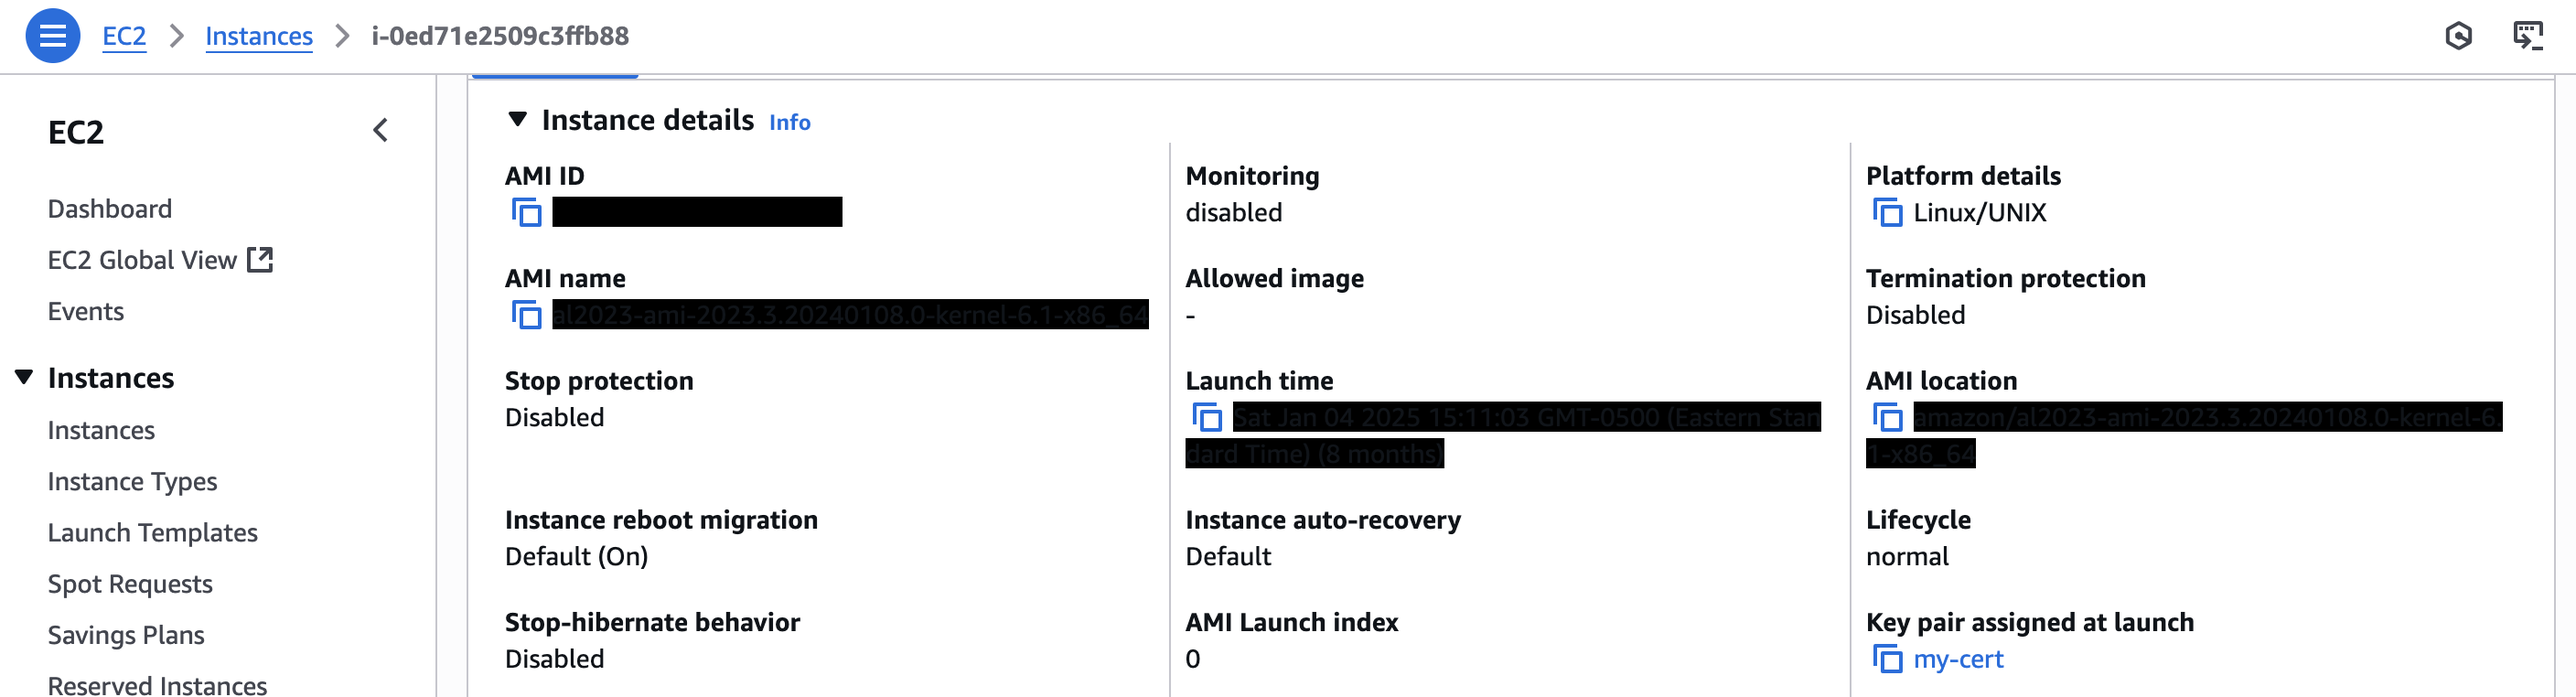
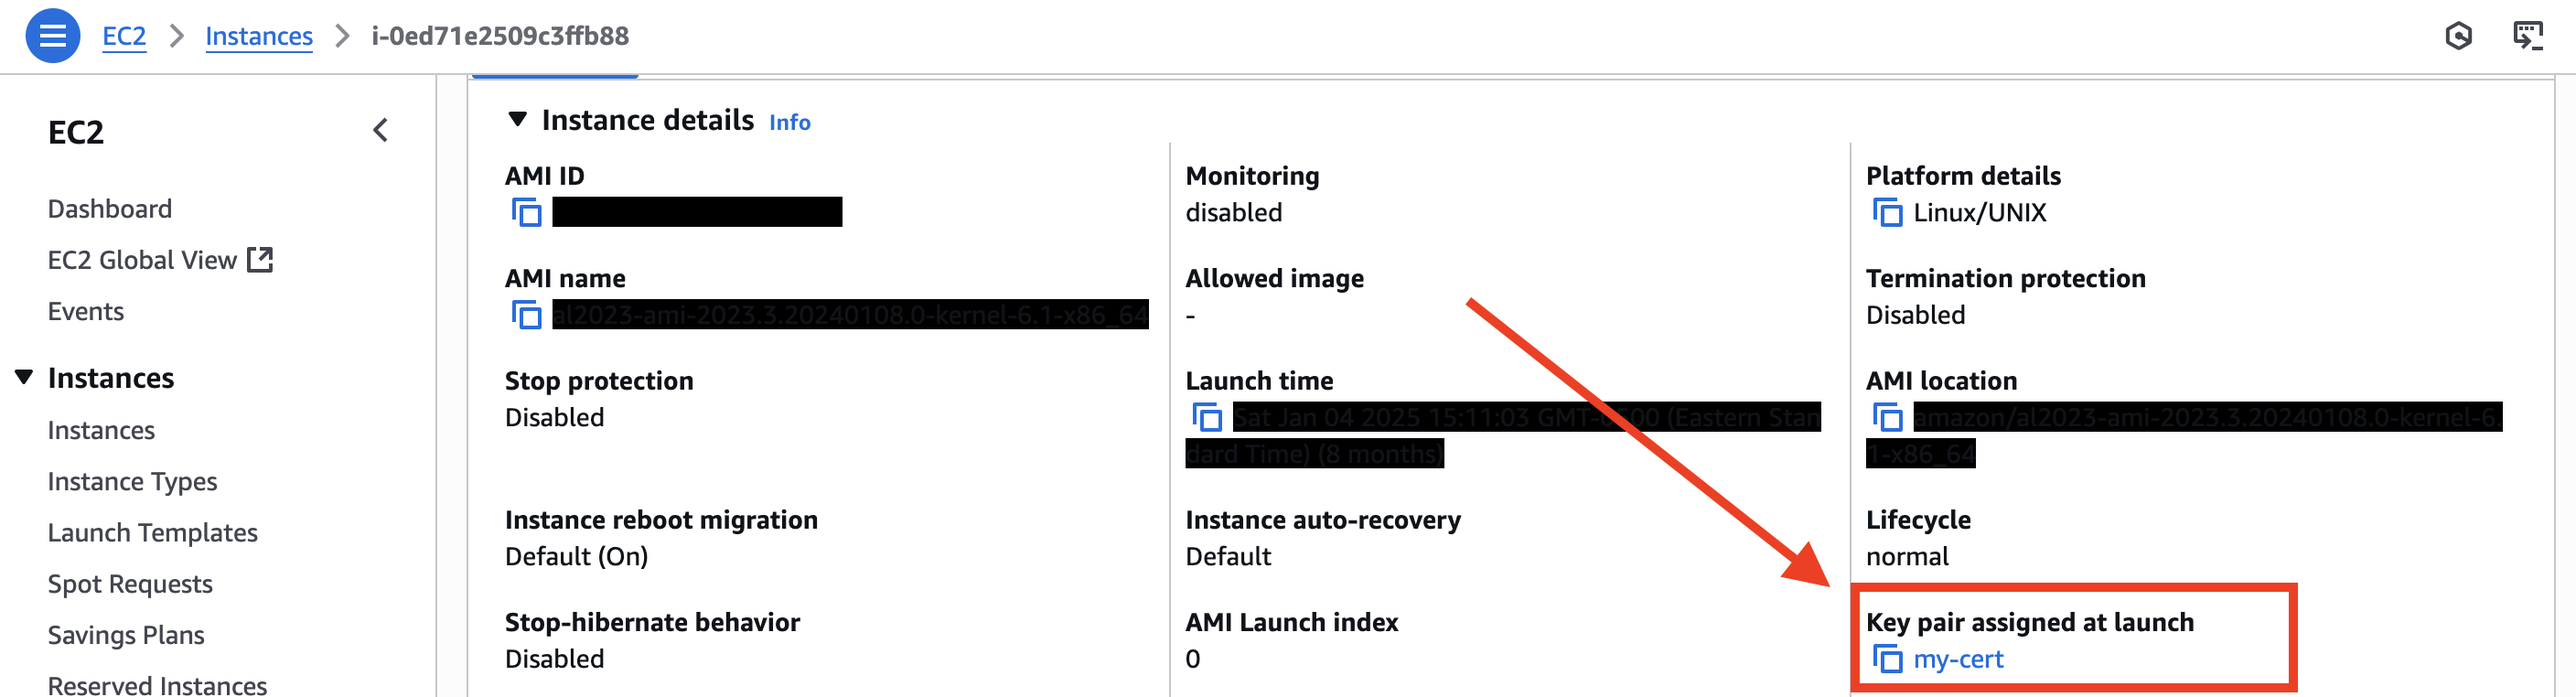
Test with indenting images

diff --git a/README.md b/README.md
@@ -69,23 +69,25 @@ The Idea/Thinking:
 2. Give it a name, select "**RSA**", "**.pem**".
 3. Then based on the state of your EC2, do one of the following:
 
-### Add Cert to new EC2
+### OPTION 1 - Add Cert to new EC2
 <details>
   <summary><i>(view Steps)</i></summary>
-  1. When you launch the new EC2 instance, there will be an option there to assign it to a cert.
-  <img alt="screenshot of the assigning key at launch" src="./images/8.Assigning-key-pair.png" width="100%"/>
-  2. Then when you launch it, will always shown "**Key pair assigned at launch**".
-  <img alt="screenshot of the key assigned at launch" src="./images/9.Key-assigned-at-launch-showing-new-cert.png" width="100%"/>
+  <ol>
+  <li>1. When you launch the new EC2 instance, there will be an option there to assign it to a cert.
+  <img alt="screenshot of the assigning key at launch" src="./images/8.Assigning-key-pair.png" width="100%"/></li>
+  <li>Then when you launch it, will always shown "**Key pair assigned at launch**".
+  <img alt="screenshot of the key assigned at launch" src="./images/9.Key-assigned-at-launch-showing-new-cert.png" width="100%"/></li>
+  </ol>
 </details>
 
-### Add Cert to existing EC2
+### OPTION 2a - Add Cert to existing EC2
 <details>
   <summary><i>(view Steps)</i></summary>
   1. SSH into it using the key it already supports (if applicable)
   2. Add new .pem cert to _________
 </details>
 
-### SITUATION: How to add if you deleted old SSH cert
+### OPTION 2b - Add Cert to existing EC2 if you deleted old SSH cert
 <details>
   <summary><i>(view Steps)</i></summary>
   Either clone it via AMI or detach EBS by doing ________
